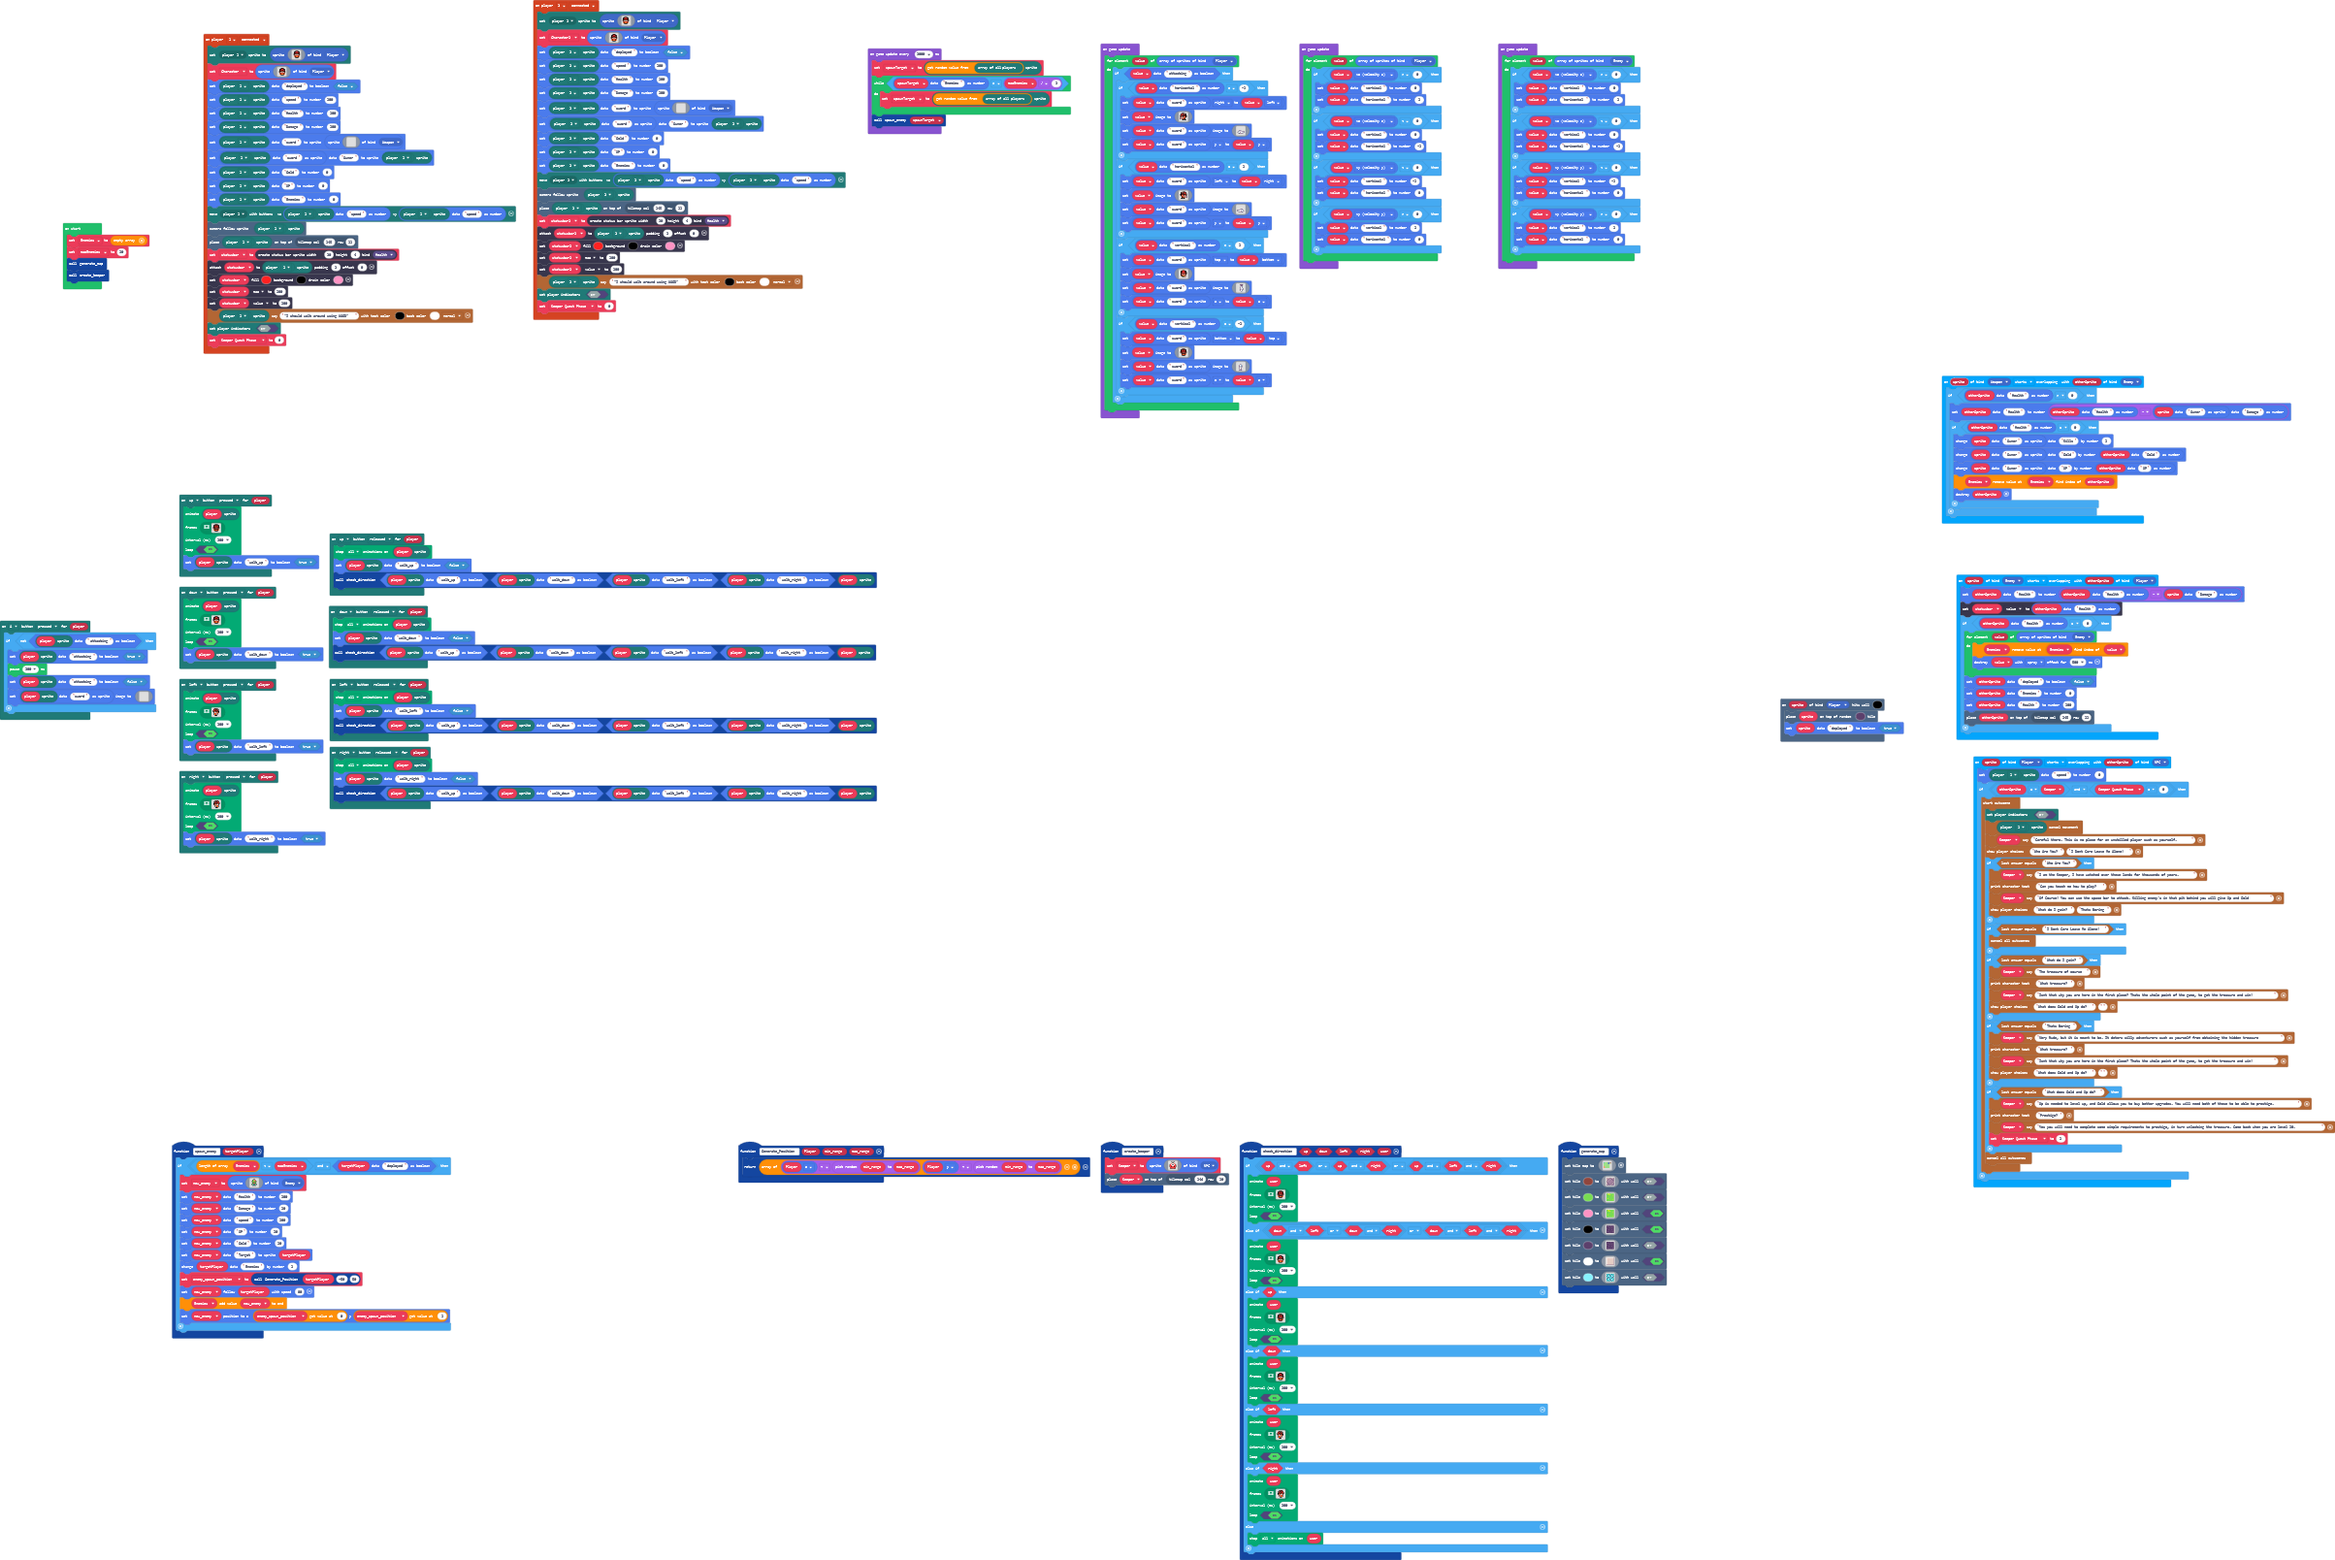
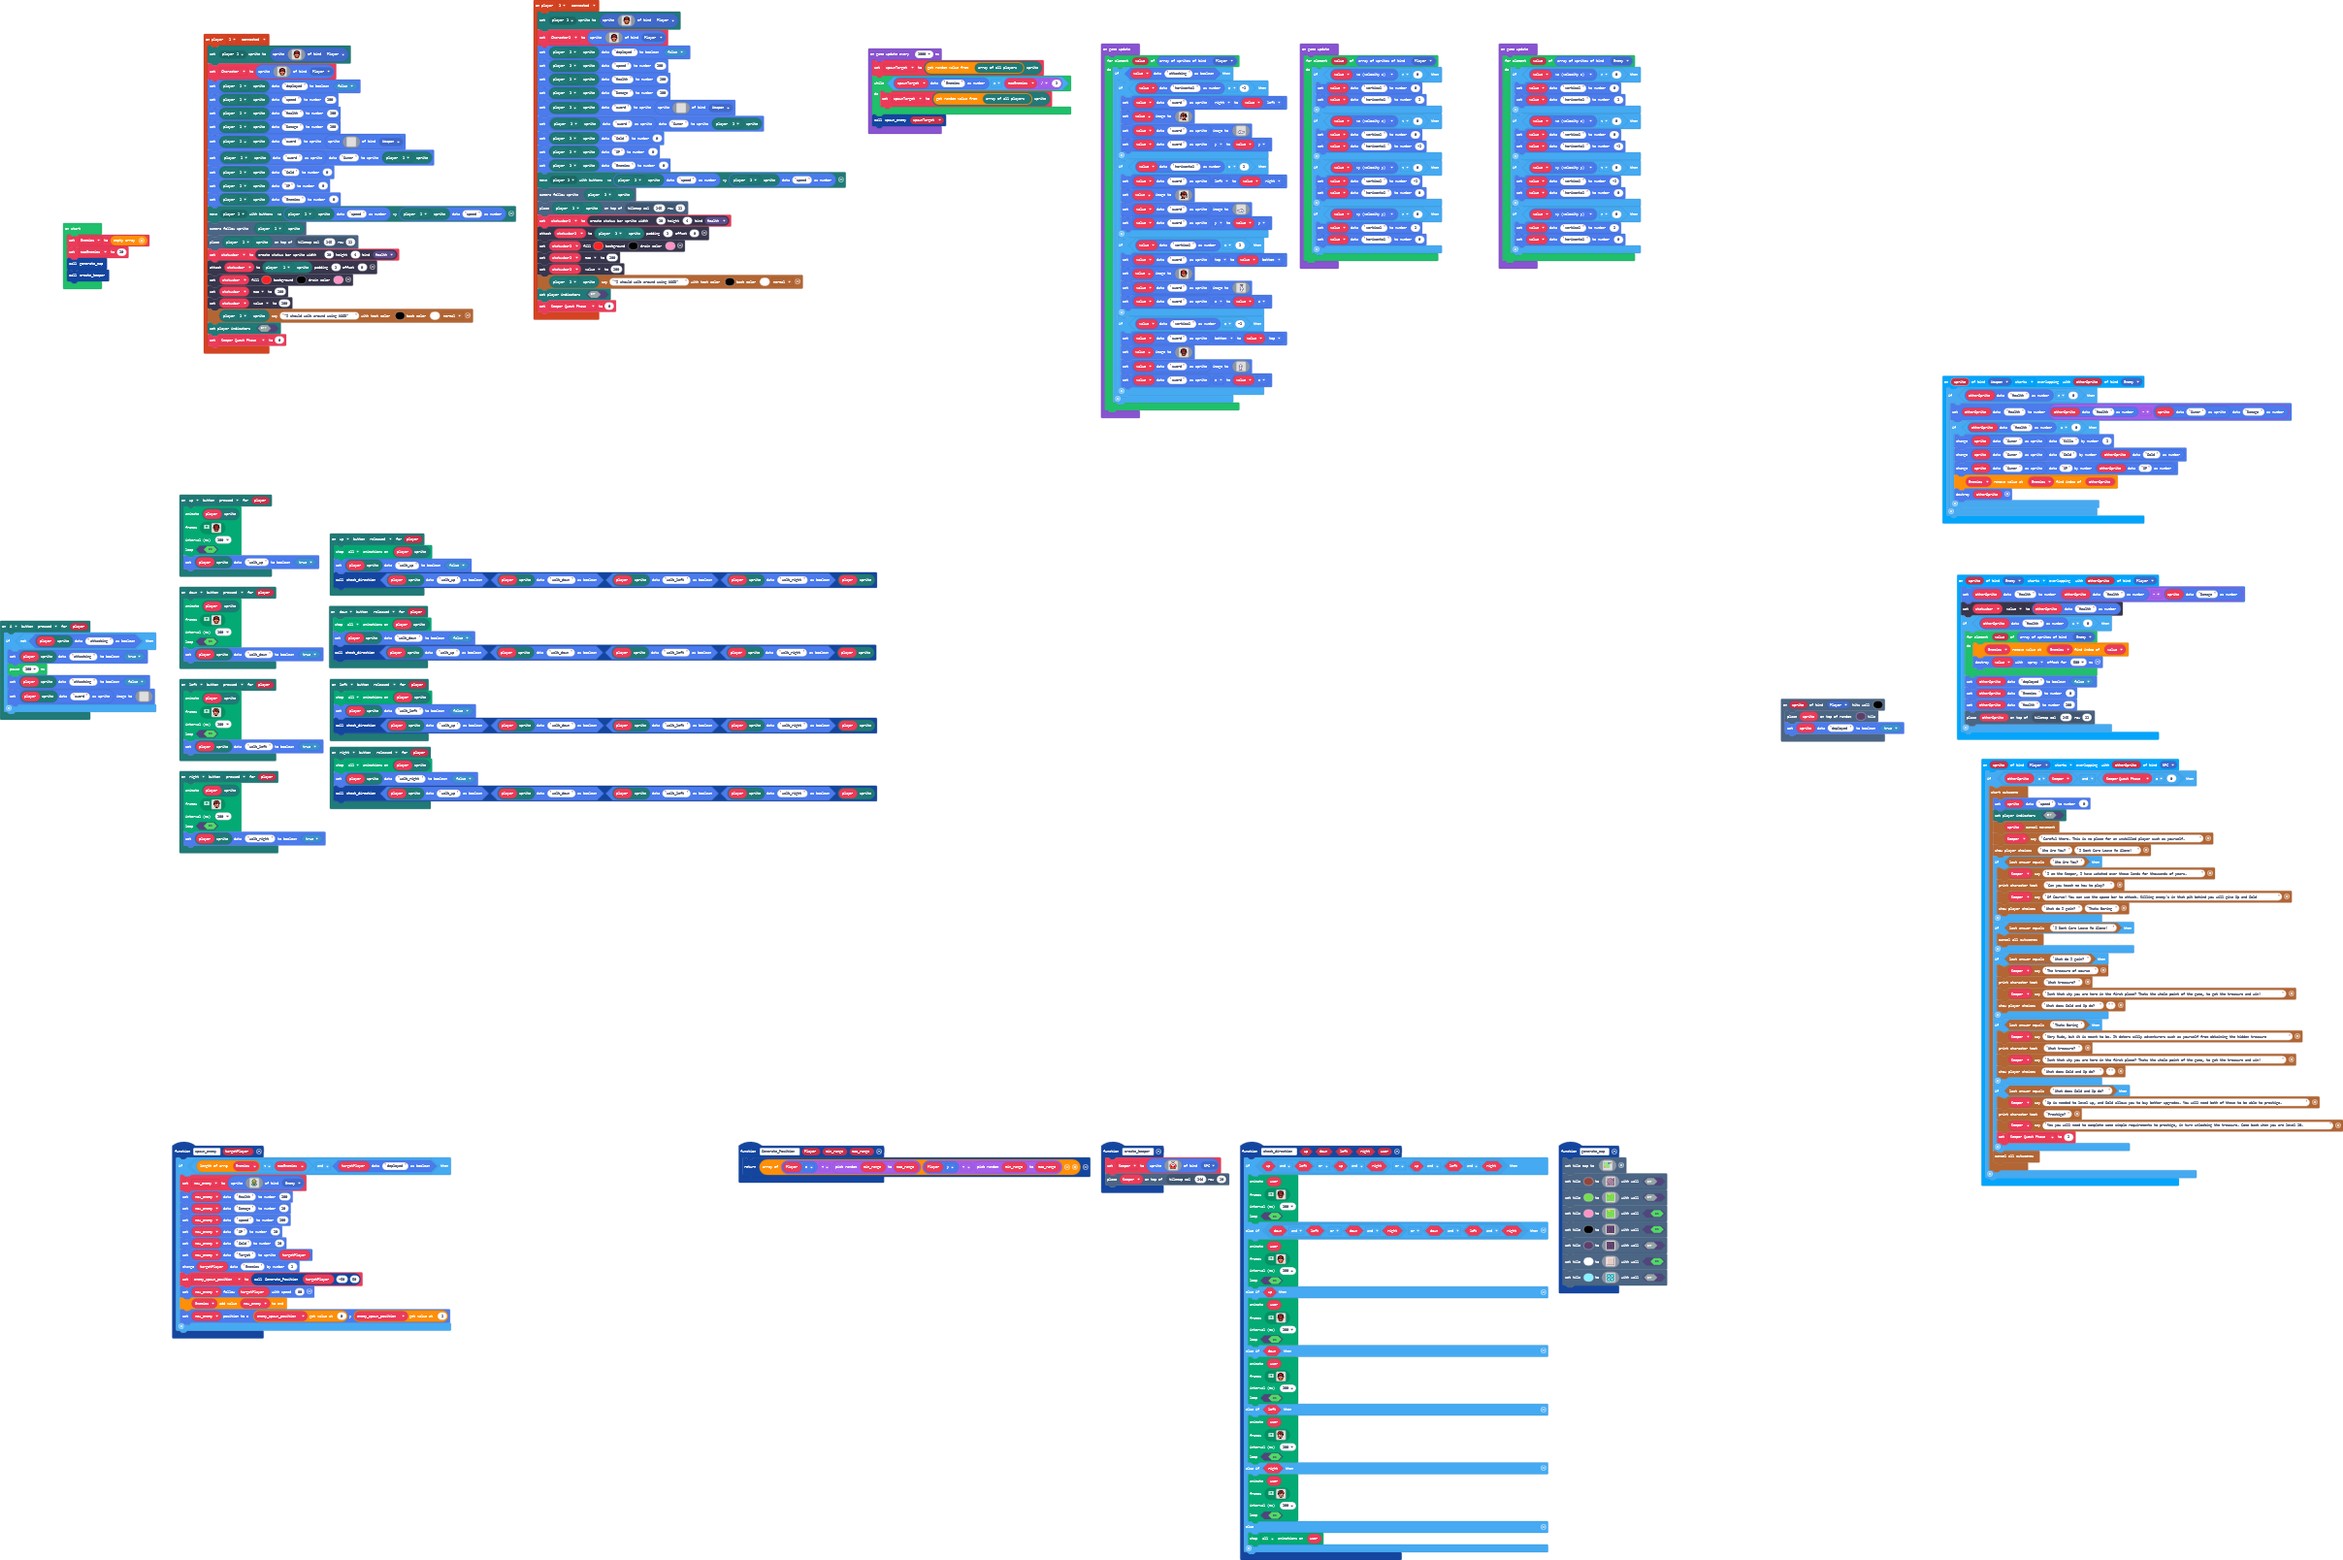
Update main.blocks, main.ts

diff --git a/main.ts b/main.ts
@@ -143,11 +143,11 @@ mp.onButtonEvent(mp.MultiplayerButton.A, ControllerButtonEvent.Pressed, function
     }
 })
 events.spriteEvent(SpriteKind.Player, SpriteKind.NPC, events.SpriteEvent.StartOverlapping, function (sprite, otherSprite) {
-    sprites.setDataNumber(mp.getPlayerSprite(mp.playerSelector(mp.PlayerNumber.One)), "speed", 0)
     if (otherSprite == Keeper && Keeper_Quest_Phase == 0) {
         story.startCutscene(function () {
+            sprites.setDataNumber(sprite, "speed", 0)
             mp.setPlayerIndicatorsVisible(false)
-            story.cancelSpriteMovement(mp.getPlayerSprite(mp.playerSelector(mp.PlayerNumber.One)))
+            story.cancelSpriteMovement(sprite)
             story.spriteSayText(Keeper, "Careful there. This is no place for an unskilled player such as yourself.")
             story.showPlayerChoices("Who Are You?", "I Dont Care Leave Me Alone!")
             if (story.checkLastAnswer("Who Are You?")) {
